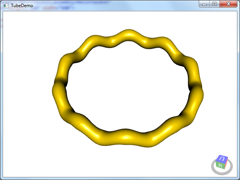
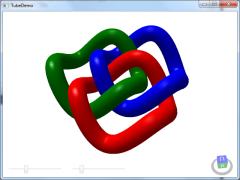
ExampleBrowser: corrected TubeDemo bugs

diff --git a/Source/Examples/ExampleBrowser/Window1.xaml.cs b/Source/Examples/ExampleBrowser/Window1.xaml.cs
@@ -53,8 +53,8 @@ namespace ExampleBrowser
             this.Examples.Add(new Example(typeof(SubdivisionDemo.MainWindow), null, "Surface subdivision by Loop's algorithm."));
             this.Examples.Add(new Example(typeof(SurfacePlotDemo.MainWindow), null, "Plotting a surface in 3D."));
             this.Examples.Add(new Example(typeof(TerrainDemo.MainWindow), null, "Rendering a terrain loaded from a .bt file."));
-            this.Examples.Add(new Example(typeof(TransparencyDemo.MainWindow), null, "Uses 'depth sorting' to show a transparent model."));
-            this.Examples.Add(new Example(typeof(TubeDemo.MainWindow), null, "Shows the TubeVisual3D."));
+            this.Examples.Add(new Example(typeof(TransparencyDemo.MainWindow), null, "Uses 'depth sorting' to show a transparent model. The sorting frequency is reduced to show what is going on."));
+            this.Examples.Add(new Example(typeof(TubeDemo.MainWindow), null, "Shows Borromean rings using the TubeVisual3D."));
             this.Examples.Add(new Example(typeof(UIElementDemo.MainWindow), null, "Test of UIElement3D in HelixViewport3D."));
             this.Examples.Add(new Example(typeof(UpDirectionDemo.MainWindow), null, "Test of y-up in HelixViewport3D."));
             this.Examples.Add(new Example(typeof(ViewportFeaturesDemo.MainWindow), null, "Demonstrates features of the HelixViewport3D."));

diff --git a/Source/Examples/ExampleBrowser/Examples/Tube/MainWindow.xaml.cs b/Source/Examples/ExampleBrowser/Examples/Tube/MainWindow.xaml.cs
@@ -10,8 +10,6 @@ using System.Windows.Media.Media3D;
 
 namespace TubeDemo
 {
-    using System.Collections.Generic;
-
     /// <summary>
     /// Interaction logic for MainWindow.xaml
     /// </summary>
@@ -33,19 +31,19 @@ namespace TubeDemo
             DataContext = this;
         }
 
-        private IList<Point3D> CreatePath(double min, double max, int n, Func<double, double> fx, Func<double, double> fy, Func<double, double> fz)
+        private Point3DCollection CreatePath(double min, double max, int n, Func<double, double> fx, Func<double, double> fy, Func<double, double> fz)
         {
-            var list = new List<Point3D>(n);
+            var list = new Point3DCollection(n);
             for (int i = 0; i < n; i++)
             {
-                double u = min + (max - min) * i / (n - 1);
+                double u = min + (max - min) * i / n;
                 list.Add(new Point3D(fx(u), fy(u), fz(u)));
             }
             return list;
         }
 
-        public IList<Point3D> Ring1 { get; set; }
-        public IList<Point3D> Ring2 { get; set; }
-        public IList<Point3D> Ring3 { get; set; }
+        public Point3DCollection Ring1 { get; set; }
+        public Point3DCollection Ring2 { get; set; }
+        public Point3DCollection Ring3 { get; set; }
     }
 }
